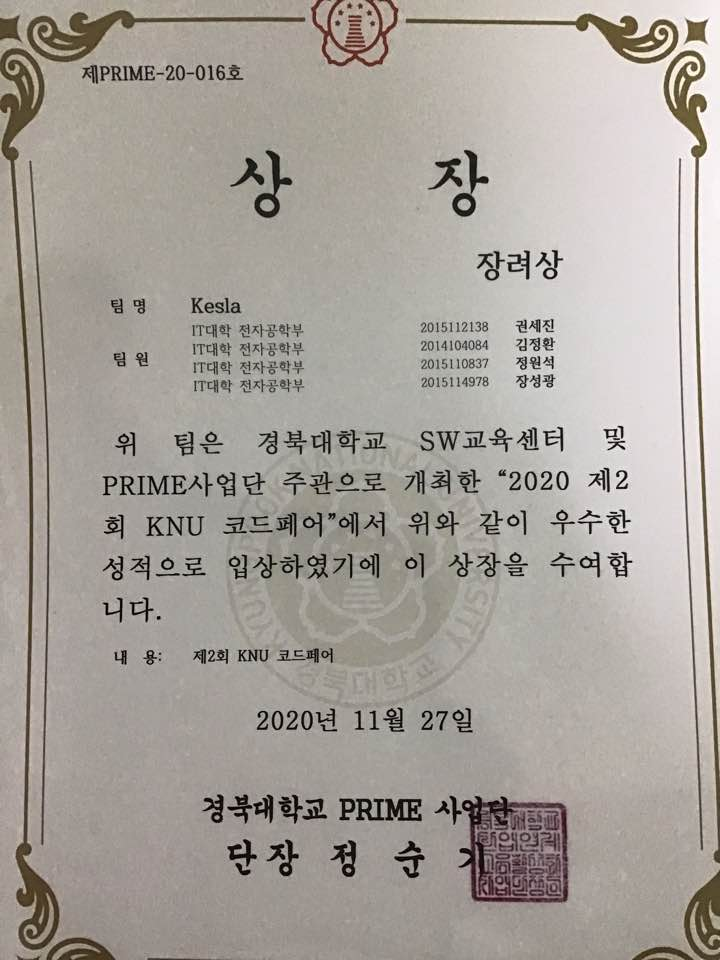
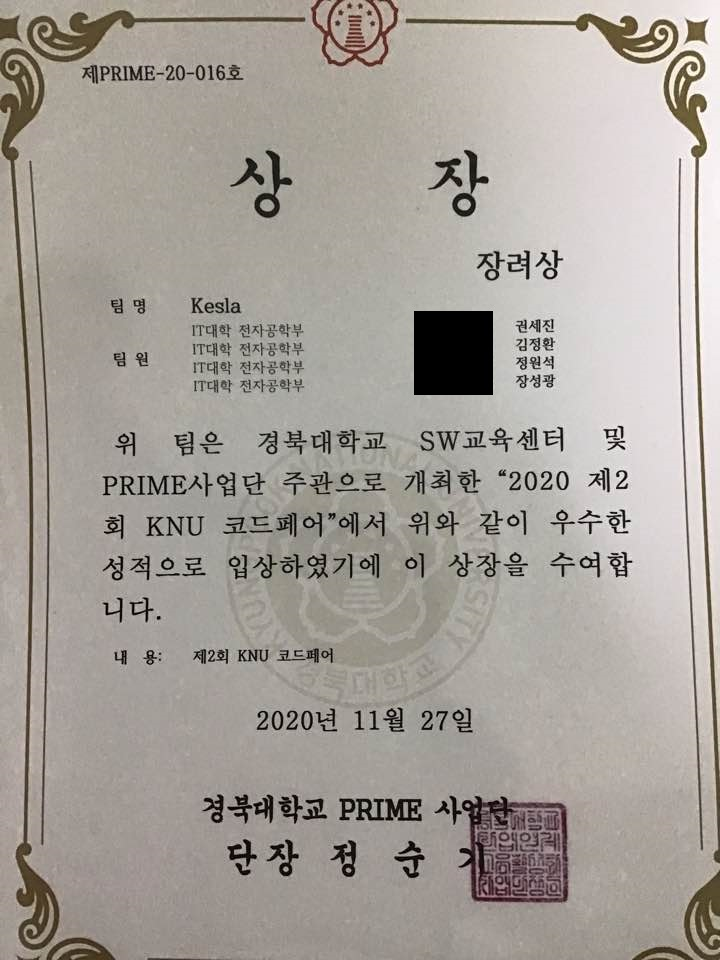
docs: 상장 이미지 새로 업로드

Changed region(s): [[0.55, 0.3125, 0.7028, 0.4375]]

diff --git a/README.md b/README.md
@@ -3,8 +3,6 @@
 
 [2020.11.27] KNU 코드페어 2회 입상
 
-<img src="./readme-images/reward.jpg" width=300px>
-
 ## Team. kesla
 ◎ AI
 
@@ -267,6 +265,8 @@
 <details>
 <summary> </summary>
 <img src="./readme-images/image07.gif" width=500px>
+ <p> KNU 코드페어 2회 입상 </p> 
+<img src="./readme-images/award.jpg" width=300px>
 </details>
 
 
